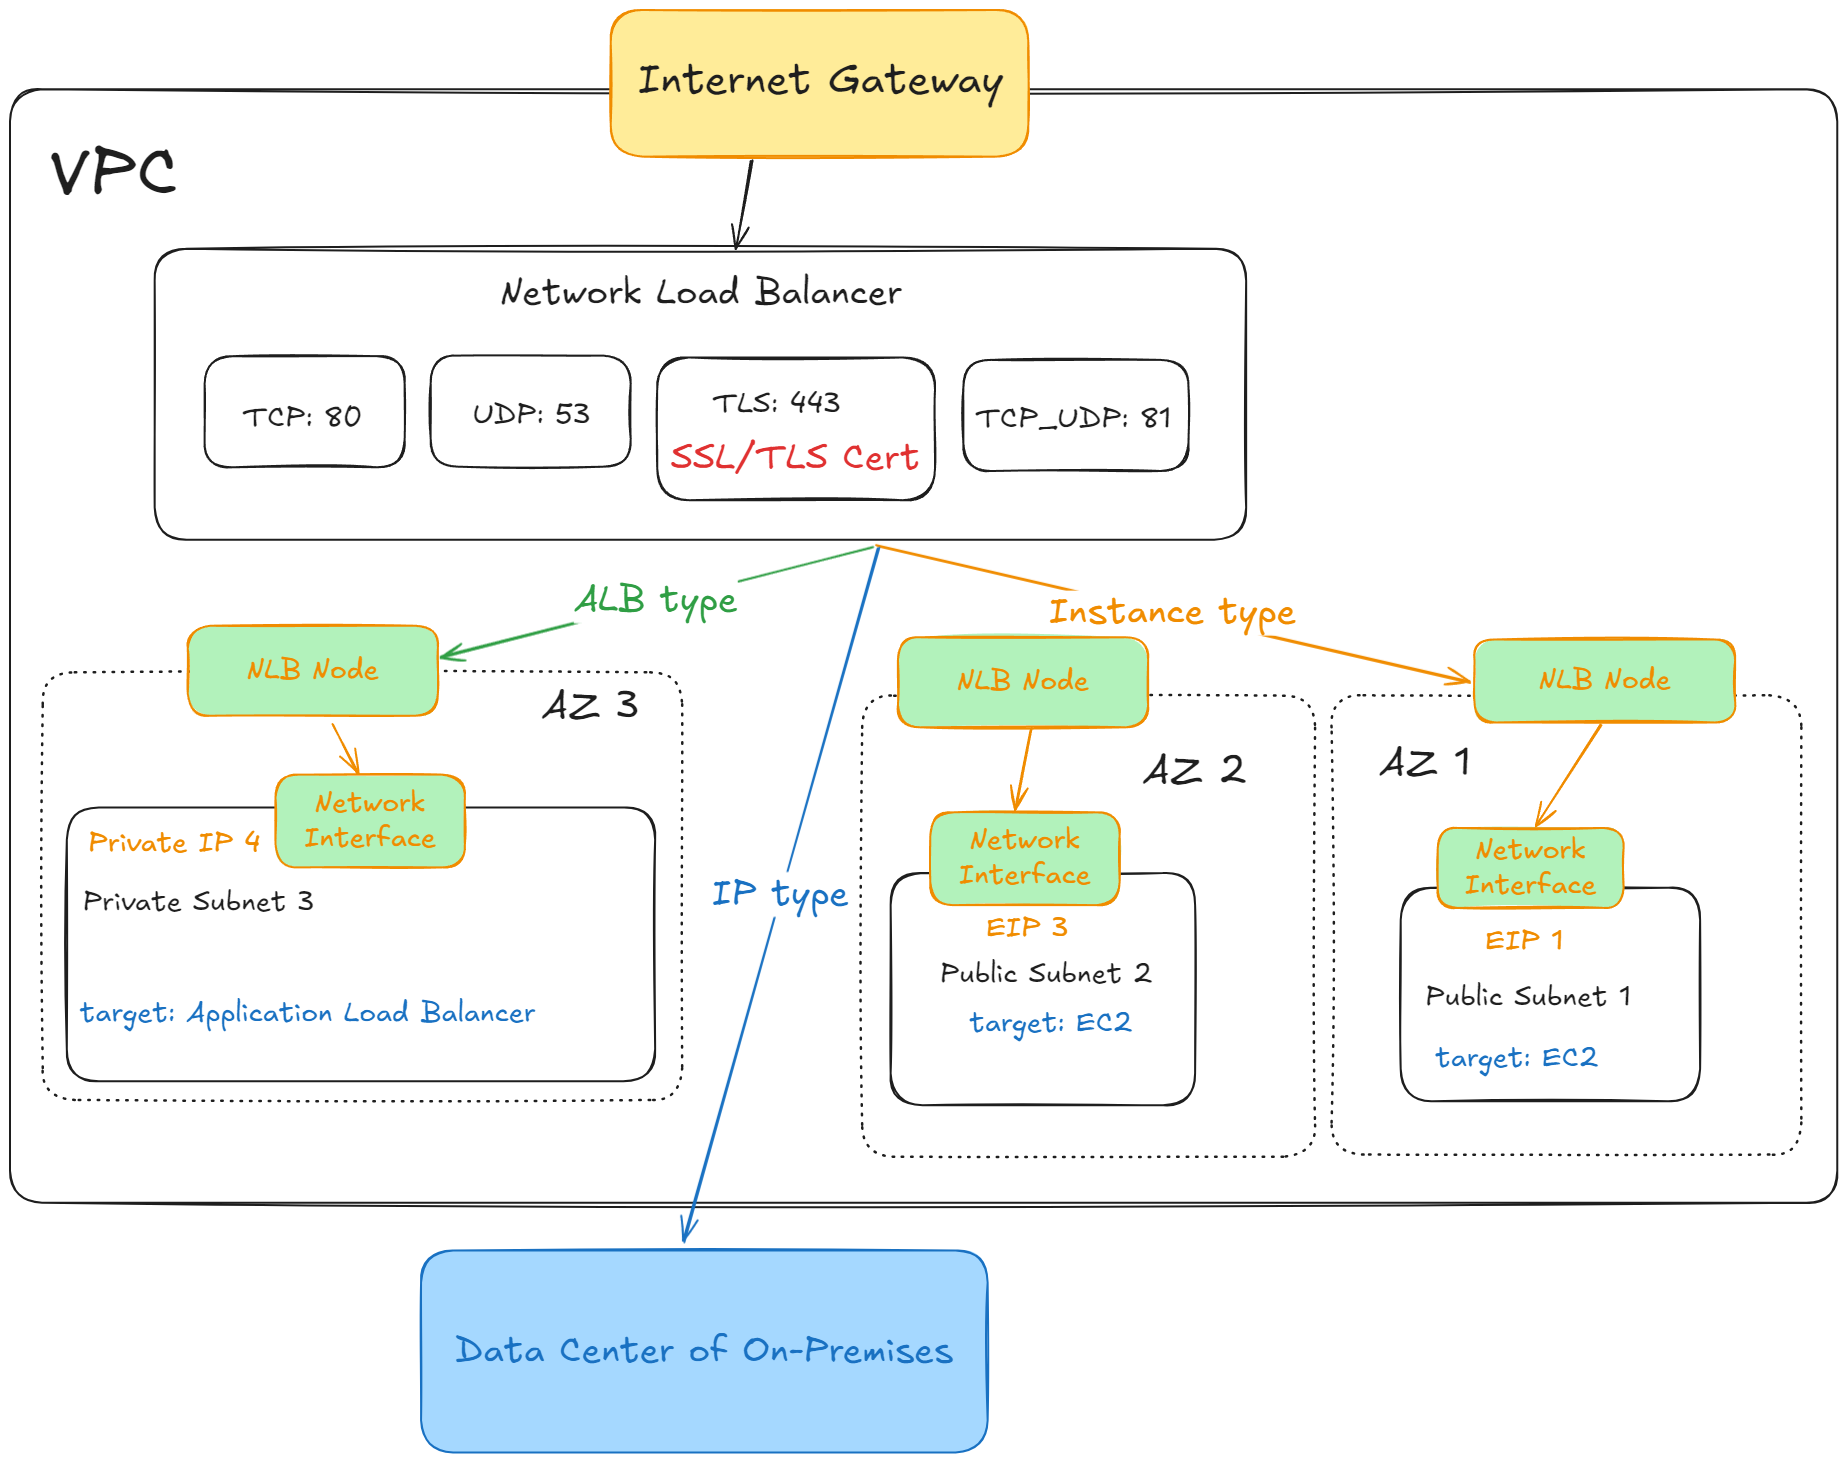
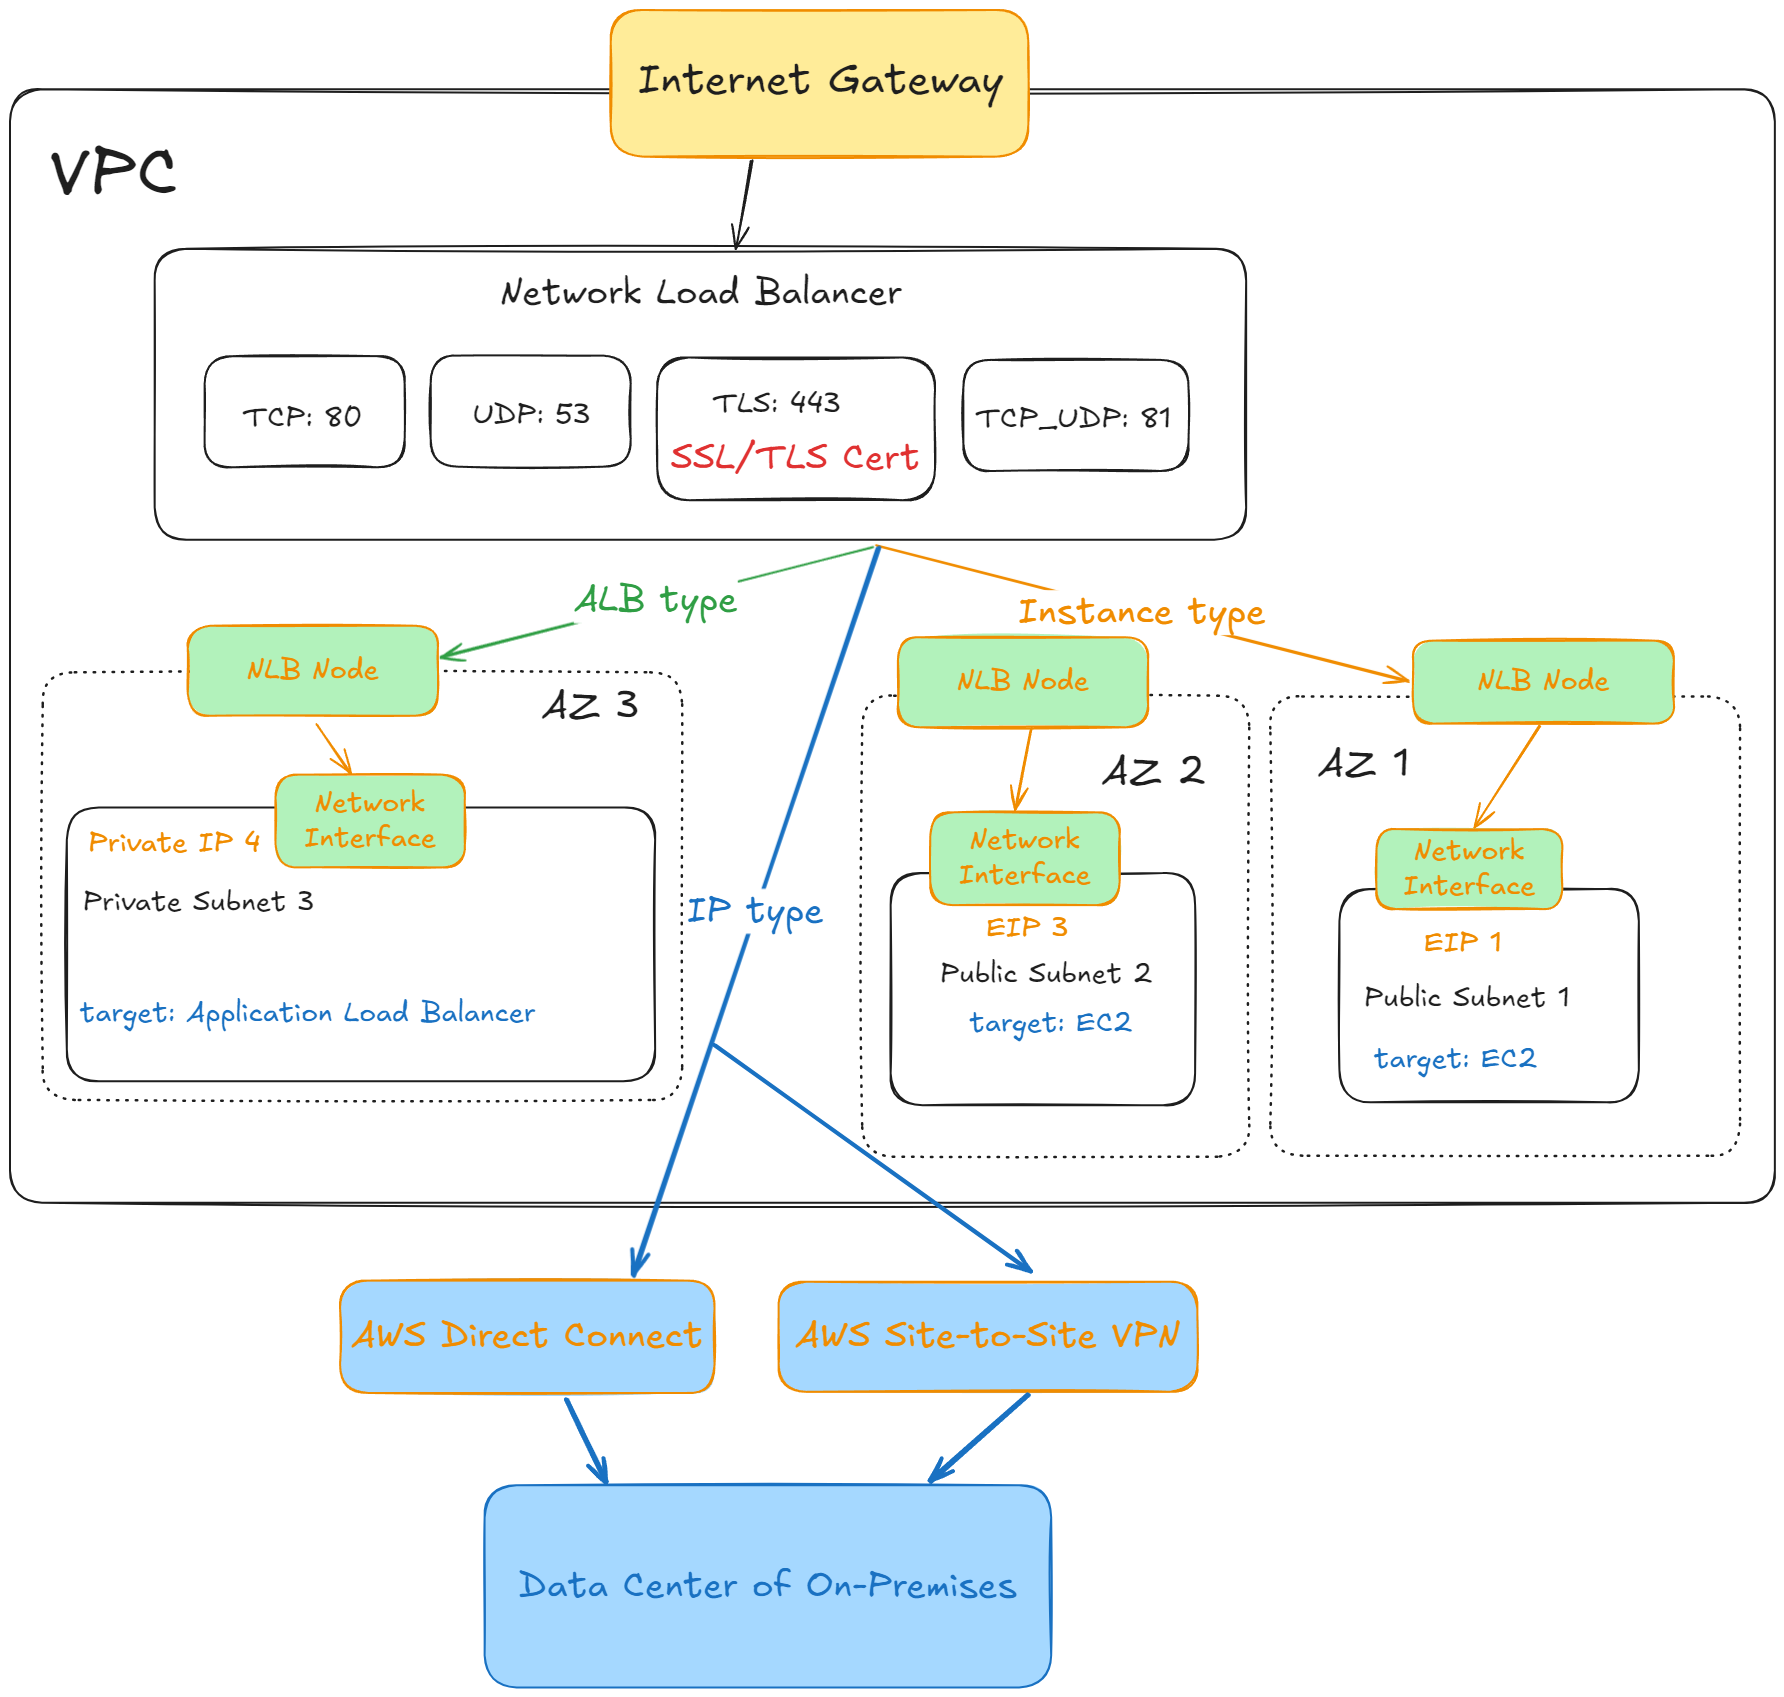
Published multiple files

diff --git a/src/site/notes/aws/AWS VPC Ecosystem and Use Cases.md b/src/site/notes/aws/AWS VPC Ecosystem and Use Cases.md
@@ -8,15 +8,15 @@ The AWS Virtual Private Cloud (VPC) ecosystem enables the creation of well-isola
 
 <br>
 
-[[aws/vpc/use-cases/A Simple Private Subnet with EC2 and RDS\|A Simple Private Subnet with EC2 and RDS]]
+[[aws/vpc/architectures/A Simple Private Subnet with EC2 and RDS\|A Simple Private Subnet with EC2 and RDS]]
 
-[[aws/vpc/use-cases/A Simple Public Subnet with Internet Access\|A Simple Public Subnet with Internet Access]]
+[[aws/vpc/architectures/A Simple Public Subnet with Internet Access\|A Simple Public Subnet with Internet Access]]
 
-[[aws/vpc/use-cases/Private Subnet Solicits Public Internet\|Private Subnet Solicits Public Internet]]
+[[aws/vpc/architectures/Private Subnet Solicits Public Internet\|Private Subnet Solicits Public Internet]]
 
-[[aws/vpc/use-cases/Communication between VPCs through VPC Peering\|Communication between VPCs through VPC Peering]]
+[[aws/vpc/architectures/Communication between VPCs through VPC Peering\|Communication between VPCs through VPC Peering]]
 
-[[aws/vpc/use-cases/Communication between VPCs through Transit Gateway\|Communication between VPCs through Transit Gateway]]
+[[aws/vpc/architectures/Communication between VPCs through Transit Gateway\|Communication between VPCs through Transit Gateway]]
 
 
 <br>

diff --git a/src/site/notes/aws/vpc/architectures/A Simple Public Subnet with Internet Access.md b/src/site/notes/aws/vpc/architectures/A Simple Public Subnet with Internet Access.md
@@ -1,0 +1,12 @@
+---
+{"dg-publish":true,"permalink":"/aws/vpc/architectures/a-simple-public-subnet-with-internet-access/"}
+---
+
+**Use Case**: a simple public subnet allowing traffic with the internet
+**Components**: [[aws/vpc/atomic-elements/subnet\|subnet]]  [[aws/vpc/atomic-elements/route-table\|route-table]]  [[aws/vpc/atomic-elements/internet-gateway\|internet-gateway]]
+
+![Public Subnet.png](/img/user/aws/vpc/png/Public%20Subnet.png)
+
+**Security**
+Security of EC2 is controlled by [[aws/vpc/atomic-elements/security-group\|security-group]].
+Security of Subnet is controlled by [[aws/vpc/atomic-elements/network-acls\|network-acls]].

diff --git a/src/site/notes/aws/vpc/architectures/A Simple Private Subnet with EC2 and RDS.md b/src/site/notes/aws/vpc/architectures/A Simple Private Subnet with EC2 and RDS.md
@@ -1,0 +1,13 @@
+---
+{"dg-publish":true,"permalink":"/aws/vpc/architectures/a-simple-private-subnet-with-ec-2-and-rds/"}
+---
+
+**Use Case**: a simple private subnet with AWS services inside talking to each other. 
+**Components**: [[aws/vpc/atomic-elements/subnet\|subnet]]  [[aws/vpc/atomic-elements/route-table\|route-table]] 
+
+
+![Private Subnet.png](/img/user/aws/vpc/png/Private%20Subnet.png)
+**Security**
+Security of EC2 is controlled by [[aws/vpc/atomic-elements/security-group\|security-group]].
+Security of Subnet is controlled by [[aws/vpc/atomic-elements/network-acls\|network-acls]].
+

diff --git a/src/site/notes/aws/vpc/architectures/Private Subnet Solicits Public Internet.md b/src/site/notes/aws/vpc/architectures/Private Subnet Solicits Public Internet.md
@@ -1,0 +1,10 @@
+---
+{"dg-publish":true,"permalink":"/aws/vpc/architectures/private-subnet-solicits-public-internet/"}
+---
+
+**Use Case**: a private subnet solicits public internet and denies unsolicited requests for safety
+**Components**: [[aws/vpc/atomic-elements/subnet\|subnet]]  [[aws/vpc/atomic-elements/route-table\|route-table]]  [[aws/vpc/atomic-elements/internet-gateway\|internet-gateway]] [[aws/vpc/atomic-elements/nat-gateway\|nat-gateway]]
+<br>
+
+
+![Private Subnet Solicits Public Internet.png](/img/user/aws/vpc/png/Private%20Subnet%20Solicits%20Public%20Internet.png)

diff --git a/src/site/notes/aws/vpc/architectures/Communication between VPCs through VPC Peering.md b/src/site/notes/aws/vpc/architectures/Communication between VPCs through VPC Peering.md
@@ -1,0 +1,13 @@
+---
+{"dg-publish":true,"permalink":"/aws/vpc/architectures/communication-between-vp-cs-through-vpc-peering/"}
+---
+
+**Use Case**: Direct one-to-one connection between VPCs can be enabled through [[aws/vpc/atomic-elements/vpc-peering\|vpc-peering]]. Private AWS network backbone are used for a better security and less risk of exposure on public internet.
+
+
+**Components**:  
+[[aws/vpc/atomic-elements/vpc-peering\|vpc-peering]] 
+
+
+
+![VPCs with VPC Peering.png](/img/user/aws/vpc/png/VPCs%20with%20VPC%20Peering.png)

diff --git a/src/site/notes/aws/vpc/architectures/Communication between VPCs through Transit Gateway.md b/src/site/notes/aws/vpc/architectures/Communication between VPCs through Transit Gateway.md
@@ -1,0 +1,11 @@
+---
+{"dg-publish":true,"permalink":"/aws/vpc/architectures/communication-between-vp-cs-through-transit-gateway/"}
+---
+
+**Use Case**: Connect multiple VPCs through **Transit Gateway** from same region and through **Transit Gateway Peering** from different region
+
+**Components**:
+[[aws/vpc/atomic-elements/transit-gateway\|transit-gateway]]  [[aws/vpc/atomic-elements/transit-gateway-peering\|transit-gateway-peering]]
+
+
+![VPCs with Transit Gateway.png](/img/user/aws/vpc/png/VPCs%20with%20Transit%20Gateway.png)

diff --git a/src/site/notes/aws/vpc/atomic-elements/network-load-balancer.md b/src/site/notes/aws/vpc/atomic-elements/network-load-balancer.md
@@ -30,6 +30,8 @@
 
 ## Related Services/Resources
 - [[aws/vpc/atomic-elements/private-link\|private-link]]
+- direct-connect
+- site-to-site-vpn
 
 ## References
 - [AWS Network Load Balancer](https://docs.aws.amazon.com/elasticloadbalancing/latest/network/load-balancer-monitoring.html)
